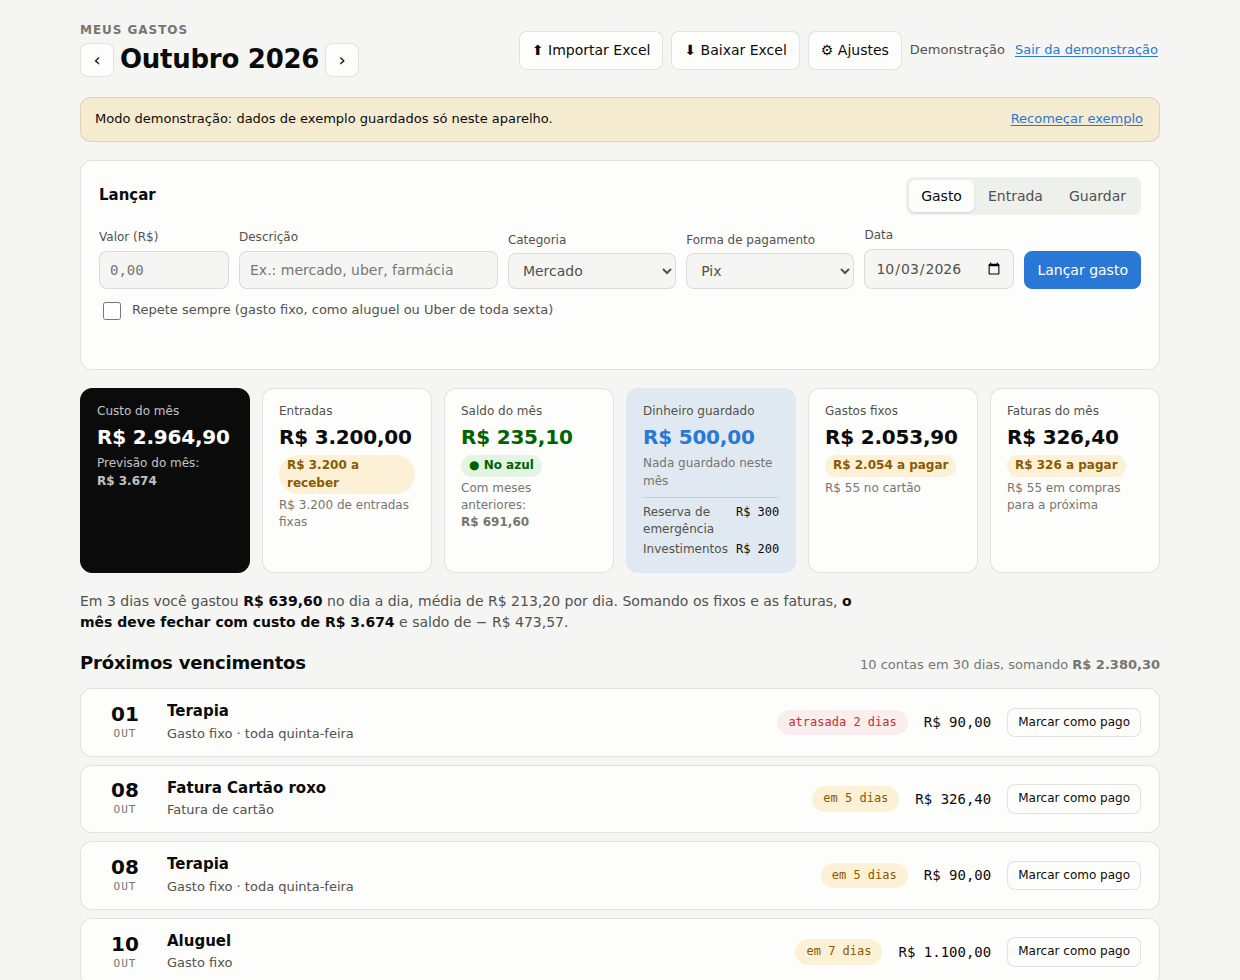
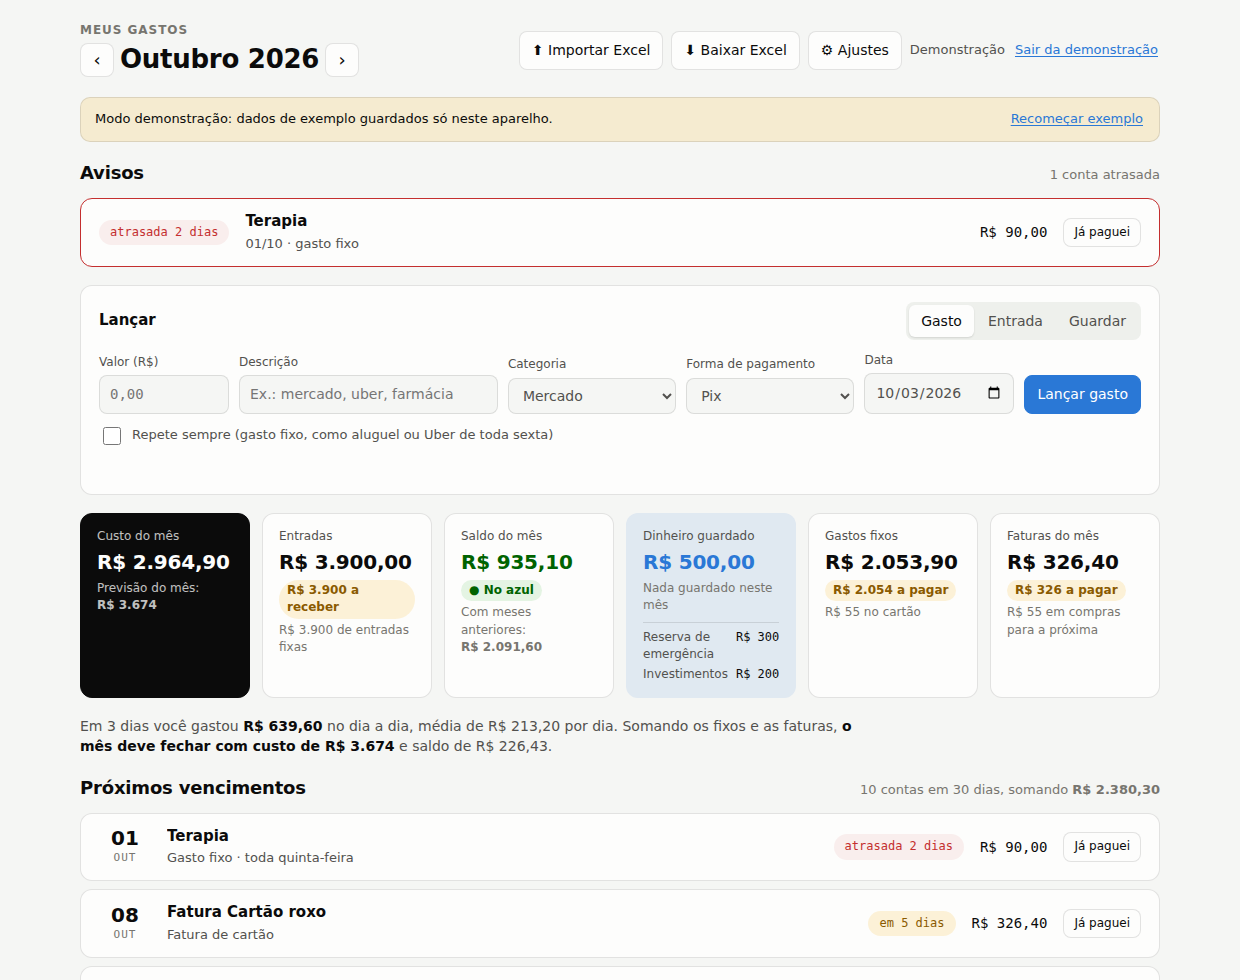
Add files via upload

diff --git a/js/app.js b/js/app.js
@@ -1,7 +1,7 @@
 // Tela do app: entrada, lançamento rápido, indicadores, gráficos e abas.
 import { SUPABASE_URL, SUPABASE_ANON_KEY, SUPORTE_CONTATO } from "./config.js";
 import { CATS_PADRAO, RETIRADA, FORMAS, MESES, MES3, pad, toISO, mKey, addM, parseMoney, round2, calcMes, catMap, custoAcumulado,
-  categoriasIniciais, primeiroMes, saldoAnterior, reservaAcumulada, guardadoPorDestino, comprasCartaoPorCategoria, proximosVencimentos, CARTAO, DIAS_SEMANA, DIAS3, diaDaSemana } from "./calc.js";
+  categoriasIniciais, primeiroMes, saldoAnterior, reservaAcumulada, guardadoPorDestino, comprasCartaoPorCategoria, proximosVencimentos, avisosDeHoje, CARTAO, DIAS_SEMANA, DIAS3, diaDaSemana } from "./calc.js";
 import { createSupabaseStore, createLocalStore, demoSeed } from "./store.js";
 import { parseWorkbook, buildWorkbook, importKey, norm } from "./excel.js";
 
@@ -35,8 +35,18 @@ const opts = (lista, atual) => lista.map((c) => `<option${c === atual ? " select
 /* ================= inicialização e login ================= */
 const configured = () => Boolean(SUPABASE_URL && SUPABASE_ANON_KEY && window.supabase);
 
+/** Links de e-mail (confirmação, nova senha) voltam com o resultado no endereço. Se veio erro, explica na tela de entrada. */
+function erroDoLink() {
+  const p = new URLSearchParams((location.hash || "").replace(/^#/, "") || location.search);
+  if (!p.get("error") && !p.get("error_code")) return "";
+  history.replaceState(null, "", location.pathname);
+  return /expired|otp/i.test((p.get("error_code") || "") + (p.get("error_description") || ""))
+    ? "Esse link já foi usado ou expirou. Para criar uma nova senha, peça outro link em \"Esqueci minha senha\"."
+    : "Não foi possível concluir pelo link do e-mail. Tente entrar normalmente ou peça um novo link.";
+}
 async function boot() {
   $("authSuporte").innerHTML = suporteHtml();
+  const aviso = erroDoLink(); if (aviso) authMsg(aviso, "err");
   if (!configured()) {
     $("authForm").hidden = true;
     $("authMsg").textContent = "Login ainda não configurado neste endereço. Você pode testar tudo na demonstração.";
@@ -44,7 +54,8 @@ async function boot() {
     S.client = window.supabase.createClient(SUPABASE_URL, SUPABASE_ANON_KEY);
     // O setTimeout evita chamar o Supabase de dentro do próprio callback (recomendação da biblioteca).
     S.client.auth.onAuthStateChange((ev, session) => setTimeout(() => {
-      if (ev === "PASSWORD_RECOVERY") pedirNovaSenha();
+      // Chegou pelo link de "esqueci minha senha": entra no app e já pede a senha nova.
+      if (ev === "PASSWORD_RECOVERY") { S.recuperando = true; if (S.store?.kind === "supabase" && S.loaded) pedirNovaSenha(); }
       if (session) { if (S.store?.kind !== "supabase") startApp(createSupabaseStore(S.client), session.user.email); }
       else if (ev === "INITIAL_SESSION" || S.store?.kind === "supabase") semSessao();
     }, 0));
@@ -63,7 +74,9 @@ function showAuth() {
 function authMsg(t, kind = "") { const m = $("authMsg"); m.textContent = t; m.className = "auth-msg " + kind; }
 const traduzErro = (e) => {
   const m = String(e?.message || e || "");
-  if (/invalid login/i.test(m)) return "E-mail ou senha incorretos.";
+  if (/invalid login/i.test(m)) return "E-mail ou senha incorretos. Confira os dois. Se ainda não tem conta, toque em Criar conta; se esqueceu a senha, use o link abaixo.";
+  if (/rate limit|too many|security purposes/i.test(m)) return "Muitas tentativas seguidas. Espere um minuto e tente de novo.";
+  if (/expired|invalid.*link|otp/i.test(m)) return "Esse link já foi usado ou expirou. Peça um novo em \"Esqueci minha senha\".";
   if (/already registered/i.test(m)) return "Esse e-mail já tem conta. Use Entrar.";
   if (/email not confirmed/i.test(m)) return "Confirme seu e-mail pelo link que enviamos antes de entrar.";
   if (/password/i.test(m) && /6/.test(m)) return "A senha precisa ter pelo menos 6 caracteres.";
@@ -85,14 +98,18 @@ $("aCriar").addEventListener("click", async () => {
     options: { emailRedirectTo: location.origin + location.pathname },
   });
   if (error) return authMsg(traduzErro(error), "err");
-  if (!data.session) authMsg("Conta criada. Abra o e-mail de confirmação que enviamos e depois volte para entrar.", "ok");
+  // Quando o e-mail já tem conta, o Supabase responde sem erro e sem identidades (para não revelar cadastros).
+  if (data.user && Array.isArray(data.user.identities) && data.user.identities.length === 0)
+    return authMsg("Esse e-mail já tem conta. Use Entrar. Se não lembra a senha, toque em \"Esqueci minha senha\".", "err");
+  if (!data.session) authMsg("Conta criada. Abra o e-mail de confirmação que enviamos (olhe também o spam), toque no link e depois volte aqui para entrar.", "ok");
 });
 $("aEsqueci").addEventListener("click", async () => {
   const email = $("aEmail").value.trim();
   if (!email) { $("aEmail").focus(); return authMsg("Digite seu e-mail acima para receber o link de nova senha."); }
   const { error } = await S.client.auth.resetPasswordForEmail(email, { redirectTo: location.origin + location.pathname });
-  authMsg(error ? traduzErro(error) : "Enviamos um link para criar uma nova senha no seu e-mail.", error ? "err" : "ok");
+  authMsg(error ? traduzErro(error) : "Se esse e-mail tem conta, enviamos um link para criar uma nova senha. Olhe também o spam. Se não chegar, pode ser que a conta ainda não exista: use Criar conta.", error ? "err" : "ok");
 });
+$("aVer").addEventListener("change", (e) => { $("aSenha").type = e.target.checked ? "text" : "password"; });
 $("aDemo").addEventListener("click", startDemo);
 $("btnSair").addEventListener("click", async () => {
   if (S.store?.kind === "supabase") { await S.client.auth.signOut(); }
@@ -100,20 +117,22 @@ $("btnSair").addEventListener("click", async () => {
 });
 
 function pedirNovaSenha() {
-  openDlg(`<h3>Criar nova senha</h3><form id="novaSenha" style="display:grid;gap:12px">
+  openDlg(`<h3>Criar nova senha</h3><p class="hint" style="margin:0 0 4px">Escolha uma senha nova, com pelo menos 6 caracteres.</p><form id="novaSenha" style="display:grid;gap:12px">
     <label class="f">Nova senha<input class="in" id="ns1" type="password" minlength="6" required autocomplete="new-password"></label>
     <div class="actions"><button class="btn primary" type="submit">Salvar senha</button></div><p class="auth-msg" id="nsMsg"></p></form>`);
   $("novaSenha").addEventListener("submit", async (e) => {
     e.preventDefault();
     const { error } = await S.client.auth.updateUser({ password: $("ns1").value });
     if (error) { $("nsMsg").textContent = traduzErro(error); return; }
-    $("dlg").close();
+    S.recuperando = false;
+    $("dlg").close(); toast("Senha alterada. Você já está dentro do app.");
+    $("flash").style.color = "var(--good)"; $("flash").textContent = "Senha alterada.";
   });
 }
 
 function startDemo() {
   try { localStorage.setItem("cg-modo", "demo"); } catch { /* nada */ }
-  const store = createLocalStore("cg-demo-v6", demoSeed(hoje()));
+  const store = createLocalStore("cg-demo-v7", demoSeed(hoje()));
   startApp(store, "Demonstração");
   showBanner(`Modo demonstração: dados de exemplo guardados só neste aparelho.`, [["Recomeçar exemplo", () => { store.reset(); startDemo(); }]]);
 }
@@ -132,7 +151,8 @@ async function startApp(store, quem) {
     S.prefs = { ...prefsPadrao(), ...(p || {}) };
     if (!S.prefs.categorias) S.prefs.categorias = categoriasIniciais(S.data);
     S.loaded = true; render();
-    if (!S.prefs.boasVindas && !S.data.lancamentos.length && !S.data.fixos.length) boasVindas();
+    if (S.recuperando) pedirNovaSenha();
+    else if (!S.prefs.boasVindas && !S.data.lancamentos.length && !S.data.fixos.length) boasVindas();
   } catch (e) { console.error(e); showBanner("Não foi possível carregar seus dados. Confira a internet e recarregue a página."); }
 }
 
@@ -167,7 +187,7 @@ function render() {
   document.querySelectorAll("#bnav button").forEach((b) => b.dataset.nav === onde ? b.setAttribute("aria-current", "page") : b.removeAttribute("aria-current"));
   $("listaTitulo").textContent = S.tab === "l" ? "Lançamentos" : S.tab === "c" ? "Cartões" : "";
   $("listaTitulo").hidden = S.tab === "f" || S.tab === "r";
-  renderForm(); renderKpis(c); renderVenc(); renderCusto(c); renderCat(c); renderTabs(c);
+  renderForm(); renderAvisos(); renderKpis(c); renderVenc(); renderCusto(c); renderCat(c); renderTabs(c);
 }
 
 function renderForm() {
@@ -233,7 +253,7 @@ function renderVenc() {
       ? "Nenhuma conta para os próximos 30 dias. Cadastre seus gastos fixos e as faturas do cartão para ser avisado aqui." : "Carregando…"}</li></ul>`;
     return;
   }
-  const quando = (d) => d < 0 ? `atrasada ${-d} ${-d === 1 ? "dia" : "dias"}` : d === 0 ? "vence hoje" : d === 1 ? "amanhã" : `em ${d} dias`;
+  const quando = quandoVence;
   const cls = (d) => (d < 0 ? "bad" : d <= 7 ? "warn" : "ok");
   host.innerHTML = cab(`${l.length} ${l.length === 1 ? "conta" : "contas"} em 30 dias, somando <b>${brl(total)}</b>`) +
     `<ul class="venc">${l.map((x, i) => `<li>
@@ -241,14 +261,43 @@ function renderVenc() {
       <span class="oque"><b>${esc(x.titulo)}</b><span>${x.tipo === "fatura" ? "Fatura de cartão" : x.semanal ? "Gasto fixo · toda " + DIAS_SEMANA[diaDaSemana(x.data)] : "Gasto fixo"}</span></span>
       <span class="quando ${cls(x.dias)}">${quando(x.dias)}</span>
       <span class="valor">${brl(x.valor)}</span>
-      <button class="btn sm" type="button" data-pg="${i}">Marcar como pago</button></li>`).join("")}</ul>`;
-  host.querySelectorAll("[data-pg]").forEach((b) => (b.onclick = async () => {
-    const x = l[Number(b.dataset.pg)]; b.disabled = true;
-    if (x.tipo === "fatura") {
-      if (await grava(() => S.store.updateFatura(x.id, { status: "Paga" }))) { const f = S.data.faturas.find((z) => z.id === x.id); if (f) f.status = "Paga"; }
-    } else if (await grava(() => S.store.setPago(x.id, x.chave, true))) S.data.pagos.push({ fixo_id: x.id, mes: x.chave });
-    render();
-  }));
+      <button class="btn sm" type="button" data-pg="${i}">Já paguei</button></li>`).join("")}</ul>`;
+  host.querySelectorAll("[data-pg]").forEach((b) => (b.onclick = () => { b.disabled = true; pagarConta(l[Number(b.dataset.pg)]); }));
+}
+/** Marca uma conta (fatura ou ocorrência de fixo) como paga e atualiza a tela. */
+async function pagarConta(x) {
+  if (x.tipo === "fatura") {
+    if (await grava(() => S.store.updateFatura(x.id, { status: "Paga" }))) { const f = S.data.faturas.find((z) => z.id === x.id); if (f) f.status = "Paga"; }
+  } else if (await grava(() => S.store.setPago(x.id, x.chave, true))) S.data.pagos.push({ fixo_id: x.id, mes: x.chave });
+  render();
+}
+const quandoVence = (d) => d < 0 ? `atrasada ${-d} ${-d === 1 ? "dia" : "dias"}` : d === 0 ? "vence hoje" : d === 1 ? "amanhã" : `em ${d} dias`;
+
+/** Avisos no topo: só o que pede atenção agora (contas atrasadas ou perto de vencer, e mês no vermelho). */
+function renderAvisos() {
+  const host = $("avisos");
+  if (!S.loaded) { host.innerHTML = ""; return; }
+  const a = avisosDeHoje(S.data, hoje(), 3), n = a.contas.length + (a.saldo ? 1 : 0);
+  if (!n) {
+    const temDados = S.data.lancamentos.length || S.data.fixos.length || S.data.faturas.length;
+    host.innerHTML = temDados ? `<p class="tudo-ok"><span class="quando ok">✓ em dia</span> Nenhuma conta atrasada nem vencendo nos próximos 3 dias.</p>` : "";
+    return;
+  }
+  const MAX = 4, vis = a.contas.slice(0, MAX), resto = a.contas.length - vis.length;
+  const saldo = !a.saldo ? "" : `<li class="aviso ${a.saldo.nivel}">
+      <span class="quando ${a.saldo.nivel}">${a.saldo.tipo === "vermelho" ? "no vermelho" : "atenção"}</span>
+      <span class="oque"><b>${a.saldo.tipo === "vermelho" ? `Este mês já está ${brl(a.saldo.valor)} no vermelho` : `No ritmo atual, o mês fecha ${brl(a.saldo.valor)} no vermelho`}</b>
+      <span>${a.saldo.tipo === "vermelho" ? "As saídas do mês passaram das entradas." : "Ainda dá tempo de segurar os gastos do dia a dia."}</span></span></li>`;
+  host.innerHTML = `<div class="sec-head"><h2>Avisos</h2><span>${a.atrasadas ? `${a.atrasadas} ${a.atrasadas === 1 ? "conta atrasada" : "contas atrasadas"}` : a.contas.length ? `${brl(a.totalContas)} vencendo em até 3 dias` : "Sobre este mês"}</span></div>
+    <ul class="venc avisos">${vis.map((x, i) => `<li class="aviso ${x.dias < 0 ? "bad" : "warn"}">
+      <span class="quando ${x.dias < 0 ? "bad" : "warn"}">${quandoVence(x.dias)}</span>
+      <span class="oque"><b>${esc(x.titulo)}</b><span>${ddmm(x.data)} · ${x.tipo === "fatura" ? "fatura de cartão" : "gasto fixo"}</span></span>
+      <span class="valor">${brl(x.valor)}</span>
+      <button class="btn sm" type="button" data-av="${i}">Já paguei</button></li>`).join("")}
+      ${resto > 0 ? `<li class="vazio"><button class="link" type="button" id="avMais">Ver mais ${resto} ${resto === 1 ? "conta" : "contas"} em Próximos vencimentos</button></li>` : ""}
+      ${saldo}</ul>`;
+  host.querySelectorAll("[data-av]").forEach((b) => (b.onclick = () => { b.disabled = true; pagarConta(vis[Number(b.dataset.av)]); }));
+  if ($("avMais")) $("avMais").onclick = () => $("venc").scrollIntoView({ behavior: "smooth", block: "start" });
 }
 
 const el = (t, a = {}, p) => { const e = document.createElementNS(NS, t); for (const k in a) e.setAttribute(k, a[k]); p && p.appendChild(e); return e; };

diff --git a/css/style.css b/css/style.css
@@ -118,6 +118,11 @@ span.chk{border-color:var(--border);color:var(--ink-2)}
 .venc .quando{font-family:var(--mono);font-size:12px;padding:4px 11px;border-radius:999px;white-space:nowrap}
 .venc .quando.ok{background:var(--good-soft);color:var(--good)} .venc .quando.warn{background:var(--warn-soft);color:var(--warn)} .venc .quando.bad{background:var(--bad-soft);color:var(--bad)}
 .venc li.vazio{display:block;color:var(--ink-2);font-size:13px}
+/* Avisos no topo: mesmos cartões dos vencimentos, sem a data grande */
+.venc.avisos li.aviso{grid-template-columns:auto minmax(0,1fr) auto auto}
+.venc.avisos li.aviso.bad{border-color:var(--bad)}
+.tudo-ok{margin:0;font-size:13px;color:var(--ink-2);display:flex;gap:10px;align-items:center;flex-wrap:wrap}
+.tudo-ok .quando{font-family:var(--mono);font-size:12px;padding:4px 11px;border-radius:999px;background:var(--good-soft);color:var(--good)}
 .btn.sm{padding:5px 10px;font-size:12px}
 .acts{text-align:right;white-space:nowrap}
 .act{border:0;background:none;color:var(--ink-2);font-size:12px;padding:4px 6px;border-radius:6px}
@@ -155,6 +160,8 @@ dialog ul{padding-left:18px;color:var(--ink-2);margin:8px 0 14px}
 .auth-form{display:grid;gap:12px}
 .auth-actions{display:grid;grid-template-columns:1fr 1fr;gap:8px}
 .auth-form .link{justify-self:start;font-size:13px}
+.ver-senha{font-size:13px;color:var(--ink-2);margin-top:-4px}
+.auth-msg{line-height:1.4}
 .auth-msg{margin:0;font-size:13px;min-height:1em;color:var(--ink-2)}
 .auth-msg.err{color:var(--bad)} .auth-msg.ok{color:var(--good)}
 .auth-demo{border-top:1px solid var(--grid);padding-top:14px;display:grid;gap:4px}
@@ -217,6 +224,13 @@ span.chk{border-color:var(--border);color:var(--ink-2)}
   .addrow>label:first-child,.addrow>button{grid-column:1/-1}
   .venc li{grid-template-columns:44px minmax(0,1fr) auto;gap:8px 12px;padding:12px 14px}
   .venc .oque b{white-space:normal}
+  /* avisos compactos: situação e valor em cima, nome e botão embaixo */
+  .venc.avisos li.aviso{grid-template-columns:minmax(0,1fr) auto;gap:6px 10px;padding:10px 12px}
+  .venc.avisos .quando{grid-column:1;grid-row:1;justify-self:start}
+  .venc.avisos .valor{grid-column:2;grid-row:1;justify-self:end}
+  .venc.avisos .oque{grid-column:1;grid-row:2}
+  .venc.avisos .btn{grid-column:2;grid-row:2;justify-self:end}
+  .venc.avisos li.aviso:not(:has(.btn)) .oque{grid-column:1/-1}
   .venc .valor{grid-column:2;grid-row:2;align-self:center}.venc .btn{grid-column:2/4;grid-row:2;justify-self:end}
   /* barra de navegação */
   .bnav{display:grid;grid-template-columns:repeat(5,1fr);position:fixed;left:0;right:0;bottom:0;z-index:30;background:var(--surface);

diff --git a/js/calc.js b/js/calc.js
@@ -132,7 +132,8 @@ export function calcMes(st, m, hoje) {
  * - Com histórico (até 3 meses anteriores com gastos): mistura o ritmo atual com a média desses meses.
  *   No começo do mês pesa mais o histórico; no fim, pesa mais o ritmo atual.
  * - Sem histórico: mantém a média diária, mas não repete compras pontuais grandes
- *   (acima de 5 vezes o gasto típico), como a compra do mês no mercado.
+ *   (acima de 5 vezes o gasto típico), como a compra do mês no mercado. Nos primeiros dias,
+ *   ou com poucos lançamentos, não projeta nada além do que já foi gasto.
  * Nunca fica abaixo do que já foi gasto.
  */
 export function projetaDiaADia(st, m, gastos, dias, n) {
@@ -145,6 +146,8 @@ export function projetaDiaADia(st, m, gastos, dias, n) {
     const hist = ult.reduce((t, k) => t + porMes[k], 0) / ult.length, w = dias / n;
     return Math.max(total, w * (total / dias) * n + (1 - w) * hist);
   }
+  // Com poucos dados (menos de 5 dias ou de 5 gastos) não dá para falar em ritmo: não extrapola.
+  if (dias < 5 || gastos.length < 5) return total;
   const vals = gastos.map((x) => Number(x.valor)).sort((a, b) => a - b);
   const mediana = vals.length ? vals[Math.floor((vals.length - 1) / 2)] : 0;
   const rotina = vals.filter((v) => v <= 5 * mediana).reduce((t, v) => t + v, 0);
@@ -255,4 +258,23 @@ export function proximosVencimentos(st, hoje, janela = 30) {
     });
   });
   return out.sort((a, b) => a.data.localeCompare(b.data) || a.titulo.localeCompare(b.titulo));
+}
+
+/**
+ * O que pede atenção hoje, para aparecer no topo do app.
+ * - contas: as atrasadas e as que vencem em até `urgencia` dias (da mais atrasada para a mais distante).
+ * - saldo: alerta se o mês atual já está no vermelho, ou se a previsão é fechar no vermelho.
+ * @returns {{contas: ReturnType<typeof proximosVencimentos>, atrasadas:number, totalContas:number,
+ *            saldo: null | {nivel:"bad"|"warn", tipo:"vermelho"|"previsao", valor:number}}}
+ */
+export function avisosDeHoje(st, hoje, urgencia = 3) {
+  const contas = proximosVencimentos(st, hoje, urgencia);
+  const c = calcMes(st, mKey(hoje), hoje);
+  const previsto = round2(c.rec - c.proj - c.res);
+  let saldo = null;
+  if (c.it.length || c.fx.length || c.fr.length || c.fat.length) {
+    if (c.saldo < 0) saldo = { nivel: "bad", tipo: "vermelho", valor: -c.saldo };
+    else if (previsto < 0) saldo = { nivel: "warn", tipo: "previsao", valor: -previsto };
+  }
+  return { contas, atrasadas: contas.filter((x) => x.dias < 0).length, totalContas: round2(contas.reduce((t, x) => t + x.valor, 0)), saldo };
 }

diff --git a/js/store.js b/js/store.js
@@ -127,7 +127,7 @@ export function demoSeed(hojeISO) {
       .map(([descricao, categoria, dia, valor, forma]) => ({ id: uuid(), tipo: "Despesa", descricao, categoria, dia, valor, forma, desde: `${prev}-01`, ate: null }));
     // Exemplo de gasto semanal: terapia toda quinta-feira, desde o mês anterior.
     F.push({ id: uuid(), tipo: "Despesa", repete: "semanal", dia_semana: 4, descricao: "Terapia", categoria: "Saúde", dia: 1, valor: 90, forma: "Pix", desde: `${prev}-01`, ate: null });
-    const salario = { id: uuid(), tipo: "Receita", descricao: "Salário", categoria: "Salário", dia: 5, valor: 3200, forma: "", desde: `${prev}-01`, ate: null };
+    const salario = { id: uuid(), tipo: "Receita", descricao: "Salário", categoria: "Salário", dia: 5, valor: 3900, forma: "", desde: `${prev}-01`, ate: null };
     const P = [];
     F.filter((f) => f.repete !== "semanal").forEach((f) => { P.push({ fixo_id: f.id, mes: `${prev}-01` }); if (f.dia <= d) P.push({ fixo_id: f.id, mes: `${cur}-01` }); });
     const C = [{ id: uuid(), cartao: "Cartão roxo", vencimento: `${cur}-08`, valor: 326.4, status: d >= 8 ? "Paga" : "Aberta" },

diff --git a/index.html b/index.html
@@ -29,6 +29,7 @@
     <form id="authForm" class="auth-form" autocomplete="on">
       <label class="f">E-mail<input class="in" id="aEmail" type="email" autocomplete="email" required></label>
       <label class="f">Senha<input class="in" id="aSenha" type="password" autocomplete="current-password" minlength="6" required></label>
+      <label class="check ver-senha"><input type="checkbox" id="aVer"> Mostrar senha</label>
       <div class="auth-actions">
         <button class="btn primary" type="submit" id="aEntrar">Entrar</button>
         <button class="btn" type="button" id="aCriar">Criar conta</button>
@@ -68,6 +69,8 @@
   </div>
 
   <div class="banner" id="banner" role="status" hidden></div>
+
+  <section class="v-inicio" id="avisos" aria-label="Avisos"></section>
 
   <section class="panel quick" aria-label="Lançar">
     <div class="quick-head">

diff --git a/sw.js b/sw.js
@@ -1,6 +1,6 @@
 // Service worker: guarda os arquivos do app para abrir rápido e funcionar como app instalado.
 // Os dados (Supabase) sempre vêm da internet. Ao mudar arquivos, aumente a VERSAO.
-const VERSAO = "meus-gastos-v9";
+const VERSAO = "meus-gastos-v11";
 const ARQUIVOS = [
   "./", "index.html", "css/style.css", "manifest.webmanifest",
   "js/app.js", "js/calc.js", "js/store.js", "js/excel.js", "js/config.js",

diff --git a/README.md b/README.md
@@ -23,6 +23,7 @@ Eu controlava meus gastos numa planilha do Excel que só mostrava o saldo depois
 - **Gastos fixos** cadastrados uma vez: mensais (aluguel, internet) ou semanais (Uber de toda sexta, terapia), com marcação de "pago" a cada ocorrência.
 - **Entradas fixas**, como o salário: cadastradas uma vez, são lançadas sozinhas em todo mês, no dia escolhido.
 - **Cartão de crédito pela fatura**: o que é comprado no cartão só pesa no mês em que a fatura vence.
+- **Avisos no topo**: contas atrasadas ou vencendo em até 3 dias, com botão "Já paguei", e alerta quando o mês está ou vai fechar no vermelho.
 - **Próximos vencimentos**: quadro com as contas dos próximos 30 dias ("em 10 dias vence a fatura, R$ 299"), com aviso de atraso e botão para marcar como pago.
 - **Dinheiro guardado** separado do saldo, por destino (reserva de emergência, investimentos e outros), com guardar e retirar.
 - **Saldo acumulado**: o que sobrou ou faltou passa para o mês seguinte, se a pessoa quiser.
@@ -66,7 +67,8 @@ A tela não sabe onde os dados estão guardados: ela usa a interface de `store.j
 - **Entradas** = entradas lançadas + entradas fixas do mês.
 - **Saldo do mês** = entradas − custo − dinheiro guardado no mês (guardou menos retirou).
 - **Dinheiro guardado** = soma de tudo que foi guardado menos o que foi retirado, por destino.
-- **Previsão** (mês atual): com histórico, mistura o ritmo do mês com a média dos últimos 3 meses, dando mais peso ao histórico no começo do mês. Sem histórico, mantém a média diária sem repetir compras pontuais grandes.
+- **Previsão** (mês atual): com histórico, mistura o ritmo do mês com a média dos últimos 3 meses, dando mais peso ao histórico no começo do mês. Sem histórico, mantém a média diária sem repetir compras pontuais grandes, e não projeta nada nos primeiros dias ou com poucos lançamentos.
+- **Avisos no topo**: contas atrasadas ou vencendo em até 3 dias, com botão "Já paguei", e alerta quando o mês está ou vai fechar no vermelho.
 - **Próximos vencimentos**: faturas em aberto e fixos não pagos do mês atual e do próximo, até 30 dias à frente, mais os atrasados.
 
 ### Modelo de dados
